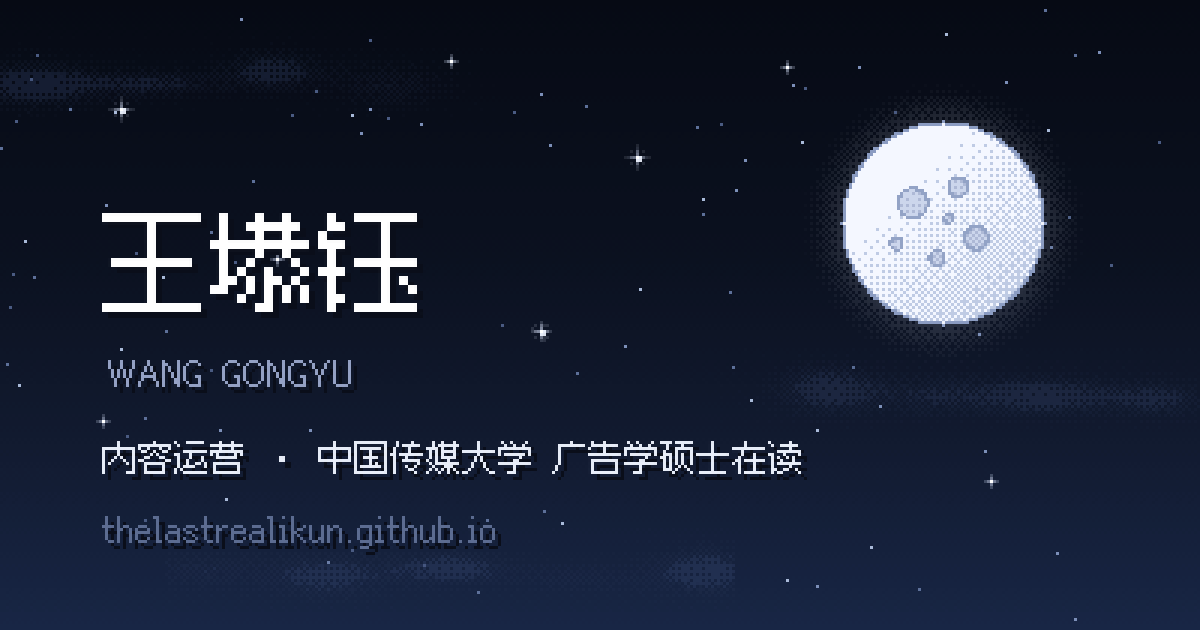
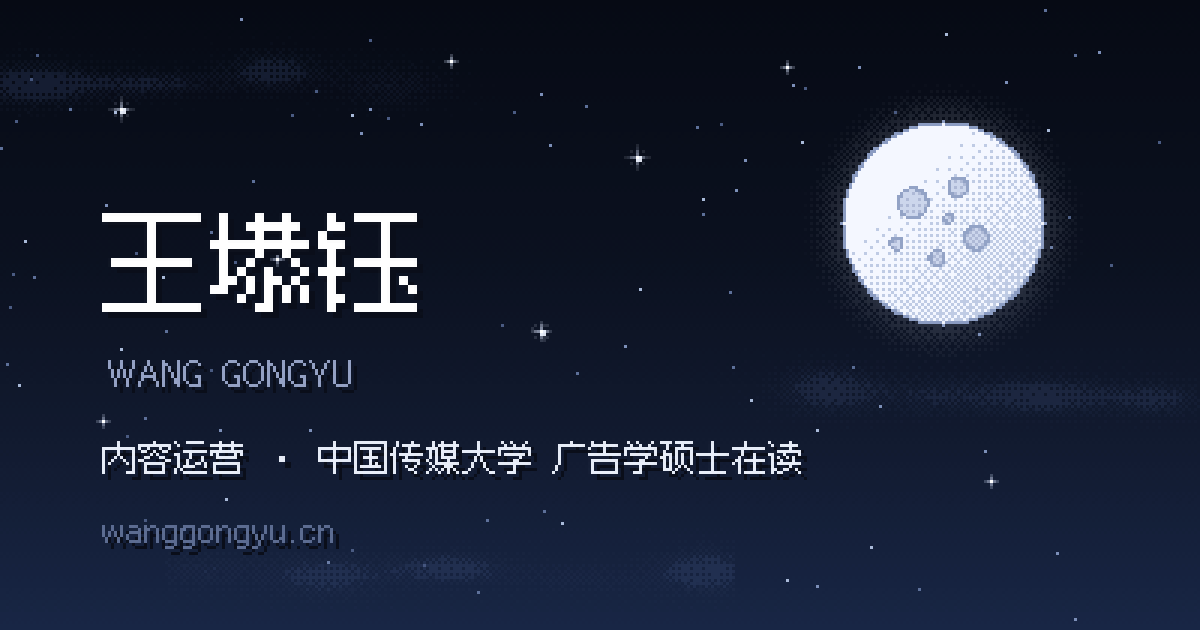
More page polish: 200px seamless candle, mail chip, copy edits
- Candle 250px -> 200px, gradient tail fully transparent (no rim line)
- Hidden copy: drop '文游/解谜'
- Surface email gets envelope icon + frame, spaced from other lines
- Remove candle hint line; footer copy -> 一片关于我的夜空 (all pages)
- OG card now shows wanggongyu.cn

Changed region(s): [[0.0617, 0.8143, 0.4317, 0.8746]]

diff --git a/more.html b/more.html
@@ -79,7 +79,7 @@
         <p>圈子多且杂（番剧 / 游戏），目前处于散粉状态，和亲友单机建设 OC 中~</p>
         <p>爱孝的产品是君清 / 祈缘 / 刻海 / 赛提</p>
         <p>如果你也推 黍 / 美树沙耶香 / 芙宁娜 / 温迪 / 清凝 / 缪尔赛思，请和我彻夜长谈😭</p>
-        <p>好想玩 原神 / 崩铁 / 无限暖暖 / 明日方舟 / 星露谷 / 王者荣耀 / 文游 / 解谜 / 模拟经营 / 不种地不是中国人（×）</p>
+        <p>好想玩 原神 / 崩铁 / 无限暖暖 / 明日方舟 / 星露谷 / 王者荣耀 / 模拟经营 / 不种地不是中国人（×）</p>
         <p>我会无条件推荐 来自深渊 / 末日后酒店 / 魔圆 / 奇巧出租车 / 小魔女学园 / 女高中生的虚度日常</p>
       </div>
       <!-- 表层文案：与其他页面正文同字体 -->
@@ -89,20 +89,16 @@
         <p>喜欢宅家，也喜欢随机出现在世界各地</p>
         <p>绘画 / 手工 / 养猫 / 烘焙 / 二次元</p>
         <p>很高兴认识你~</p>
-        <p>gongyuw01@qq.com</p>
+        <p class="s-mail"><svg width="14" height="11" viewBox="0 0 12 9" shape-rendering="crispEdges" aria-hidden="true"><rect x="0" y="0" width="12" height="1" fill="#96a5c6"/><rect x="0" y="8" width="12" height="1" fill="#96a5c6"/><rect x="0" y="0" width="1" height="9" fill="#96a5c6"/><rect x="11" y="0" width="1" height="9" fill="#96a5c6"/><rect x="1" y="1" width="1" height="1" fill="#96a5c6"/><rect x="2" y="2" width="1" height="1" fill="#96a5c6"/><rect x="3" y="3" width="1" height="1" fill="#96a5c6"/><rect x="4" y="4" width="1" height="1" fill="#96a5c6"/><rect x="5" y="5" width="2" height="1" fill="#96a5c6"/><rect x="7" y="4" width="1" height="1" fill="#96a5c6"/><rect x="8" y="3" width="1" height="1" fill="#96a5c6"/><rect x="9" y="2" width="1" height="1" fill="#96a5c6"/><rect x="10" y="1" width="1" height="1" fill="#96a5c6"/></svg>gongyuw01@qq.com</p>
       </div>
     </div>
 
     <img class="more-img reveal" src="assets/more/photo.webp" width="1200" height="1600" alt="王塨钰的自拍照">
   </div>
 
-  <p class="more-hint">
-    <svg width="12" height="12" viewBox="0 0 9 9" shape-rendering="crispEdges" aria-hidden="true"><rect x="4" y="0" width="1" height="9" fill="#5d6d92"/><rect x="0" y="4" width="9" height="1" fill="#5d6d92"/></svg>
-    移动光标 —— 烛光照亮的地方，是另一个我
-  </p>
 
   <footer class="footer">
-    <span class="px">© 2026 王塨钰 · 以深蓝、暗灰与纯白绘制的像素夜空</span>
+    <span class="px">© 2026 王塨钰 · 一片关于我的夜空</span>
     <span><a href="index.html">简历介绍</a> · <a href="portfolio.html">作品集</a> · <a href="https://github.com/thelastrealikun" rel="noopener">github</a></span>
   </footer>
 </section>
@@ -126,7 +122,7 @@ function frame(){
   cy+=(ty-cy)*0.11;
   var swayX=Math.sin(t*1.7)*1.6+Math.sin(t*3.9)*0.7;
   var swayY=Math.cos(t*1.3)*1.4+Math.sin(t*4.7)*0.6;
-  candle.style.transform='translate('+(cx-125+swayX)+'px,'+(cy-125+swayY)+'px)';
+  candle.style.transform='translate('+(cx-100+swayX)+'px,'+(cy-100+swayY)+'px)';
   /* 两层文案的遮罩跟随烛光当前位置，光圈与显隐始终同步 */
   wrap.style.setProperty('--mx',(cx+swayX)+'px');
   wrap.style.setProperty('--my',(cy+swayY)+'px');

diff --git a/style.css b/style.css
@@ -324,12 +324,12 @@ a:focus-visible,button:focus-visible{outline:2px dashed #dbe6ff;outline-offset:3
 .hidden-copy p{margin-bottom:.4em}
 /* 烛光：冷白柔和、轻微闪烁、跟随略有拖尾，边缘渐隐至全透明 */
 .candle{
-  position:absolute;left:0;top:0;width:250px;height:250px;z-index:1;
+  position:absolute;left:0;top:0;width:200px;height:200px;z-index:1;
   pointer-events:none;opacity:0;transition:opacity .45s;
 }
 .candle-core{
   width:100%;height:100%;border-radius:50%;
-  background:radial-gradient(circle,rgba(243,248,255,.95) 0%,rgba(228,238,255,.60) 32%,rgba(214,229,255,.30) 56%,rgba(202,222,255,.11) 76%,rgba(192,214,255,0) 100%);
+  background:radial-gradient(circle,rgba(243,248,255,.95) 0%,rgba(230,239,255,.62) 28%,rgba(216,231,255,.33) 48%,rgba(205,225,255,.15) 64%,rgba(198,218,255,.05) 80%,rgba(192,214,255,0) 100%);
   animation:candle-flick 2.6s ease-in-out infinite;
 }
 @keyframes candle-flick{
@@ -340,6 +340,13 @@ a:focus-visible,button:focus-visible{outline:2px dashed #dbe6ff;outline-offset:3
   82%{transform:scale(.99);opacity:.93}
 }
 .more-hint{color:var(--faint);font-size:13px;letter-spacing:1px;margin-top:14px;display:flex;align-items:center;gap:8px}
+/* 表层文案中的邮箱：图标 + 外框，与其余文案拉开距离 */
+.s-mail{
+  margin-top:30px;display:inline-flex;align-items:center;gap:10px;
+  padding:10px 16px;border:1px solid var(--line);background:rgba(11,16,30,.55);
+  letter-spacing:1px;
+}
+.s-mail svg{flex:none}
 
 @media (max-width:900px){
   .more-grid{grid-template-columns:1fr}

diff --git a/index.html b/index.html
@@ -4,7 +4,7 @@
 <meta charset="UTF-8">
 <meta name="viewport" content="width=device-width, initial-scale=1.0">
 <title>王塨钰 · 像素夜空 | 内容运营</title>
-<meta name="description" content="王塨钰的个人主页 —— 中国传媒大学广告学硕士在读，内容运营。小红书 / 阿里巴巴 / 百度实习经历。一片以深蓝、暗灰与纯白绘制的像素夜空。">
+<meta name="description" content="王塨钰的个人主页 —— 中国传媒大学广告学硕士在读，内容运营。小红书 / 阿里巴巴 / 百度实习经历。一片一片关于我的夜空。">
 <meta property="og:title" content="王塨钰 · 像素夜空">
 <meta property="og:description" content="内容运营 × 广告学硕士。小红书 / 阿里巴巴 / 百度实习经历。">
 <meta property="og:type" content="website">
@@ -259,7 +259,7 @@
   </div>
 
   <footer class="footer">
-    <span class="px">© 2026 王塨钰 · 以深蓝、暗灰与纯白绘制的像素夜空</span>
+    <span class="px">© 2026 王塨钰 · 一片关于我的夜空</span>
     <span><a href="https://github.com/thelastrealikun" rel="noopener">github.com/thelastrealikun</a></span>
   </footer>
 </section>

diff --git a/portfolio.html b/portfolio.html
@@ -198,7 +198,7 @@
   </div>
 
   <footer class="footer">
-    <span class="px">© 2026 王塨钰 · 以深蓝、暗灰与纯白绘制的像素夜空</span>
+    <span class="px">© 2026 王塨钰 · 一片关于我的夜空</span>
     <span><a href="index.html">返回简历介绍</a> · <a href="https://github.com/thelastrealikun" rel="noopener">github.com/thelastrealikun</a></span>
   </footer>
 </section>
